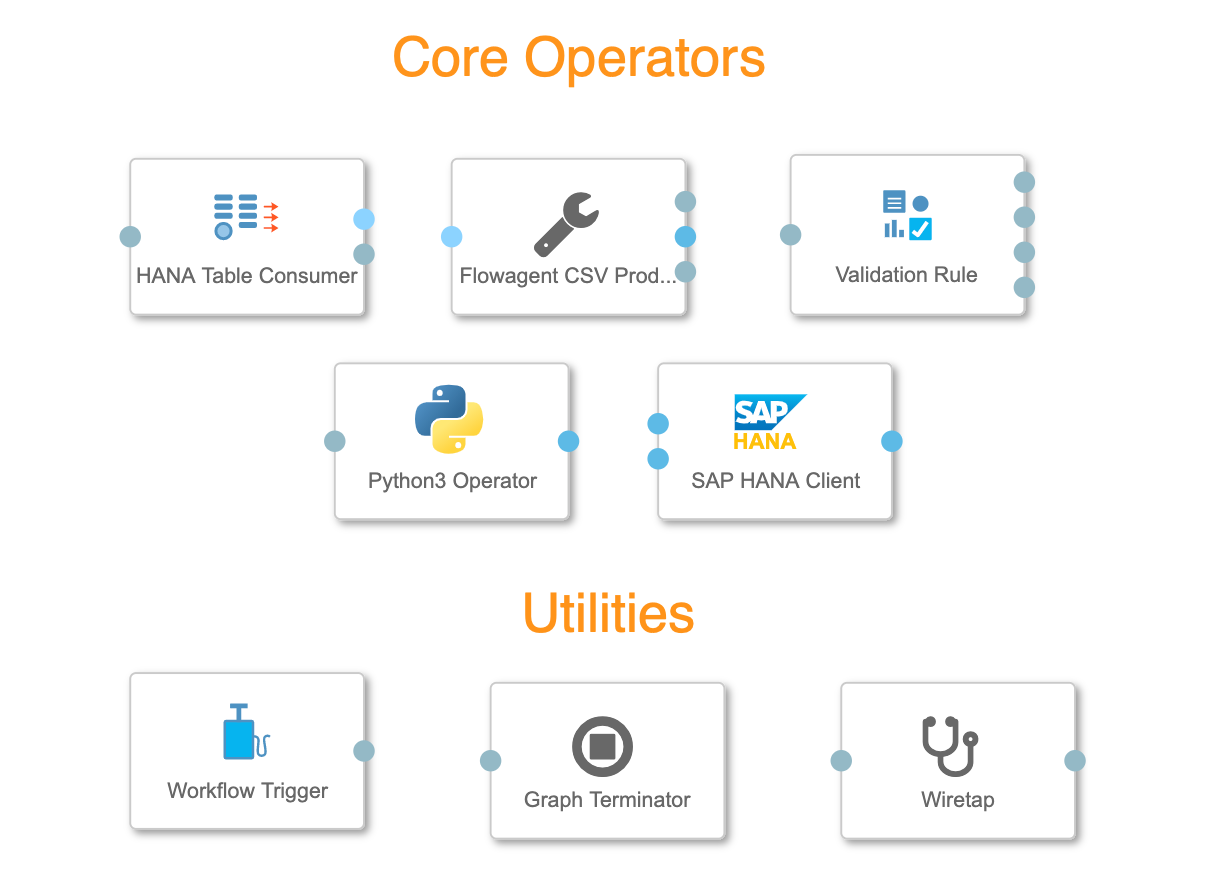
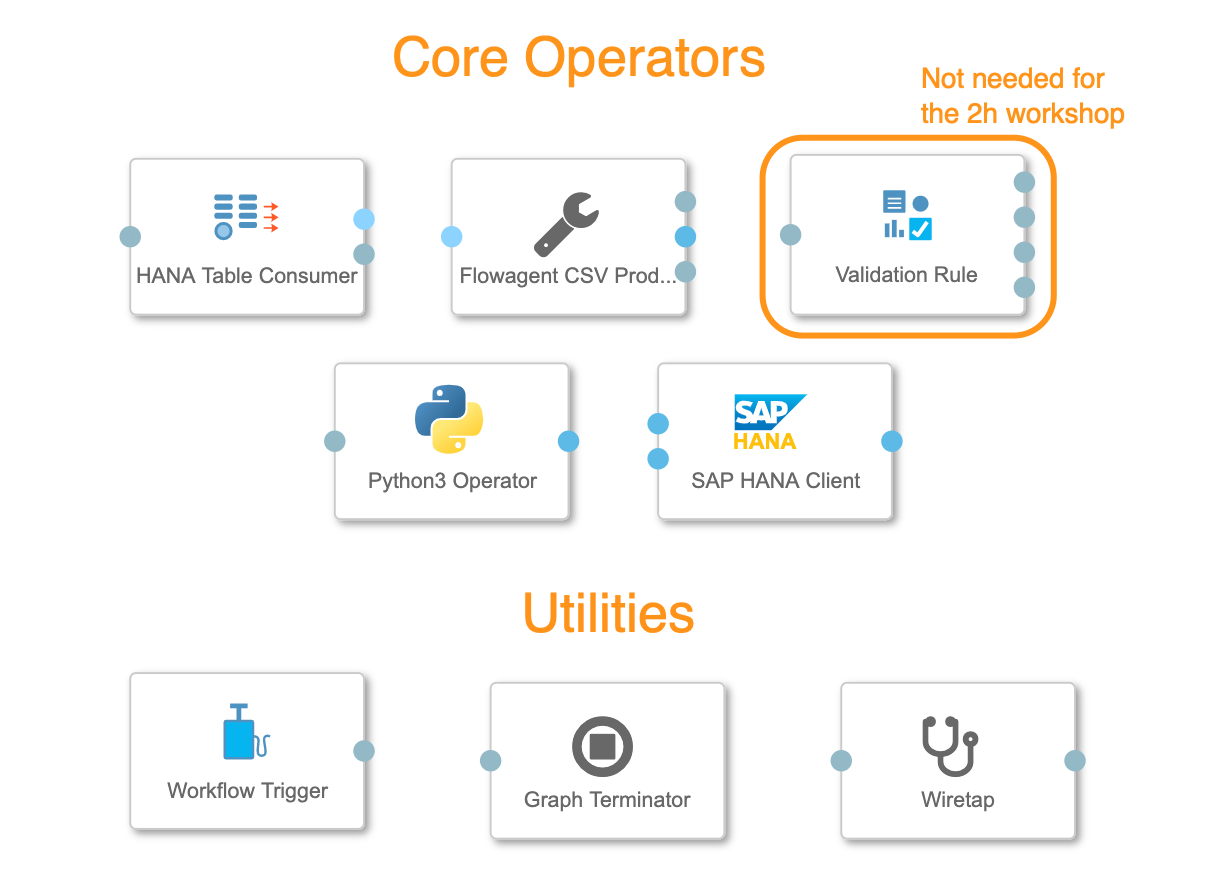
h2ex2

Changed region(s): [[0.6179, 0.0625, 0.9268, 0.4062]]

diff --git a/exercises/2h/ex2/README.md b/exercises/2h/ex2/README.md
@@ -50,44 +50,11 @@ Hint: Depending on the HANA DB operator you might have the header passed as well
 
 4. Before we continue with the designing the pipeline we want to verify that data is being read correctly from HANA and rewritten into a CSV format. Start the pipeline and wait for it to in status `Running`. Click on the **Open UI** icon on the `Wiretap` operator. (This icon only appears when the pipeline is running) A new browser tab is opened and if everything is configured correctly CSV data should be displayed.
 
-## Exercise 3.2
 
-1. Add the `Validation Rule` operator and connect it to the outport of the `Wiretap` operator
-2. Configure the **Input Schema**: Click on *Edit*
-	- In the new configuration window "Edit property 'Input Schema'
-	- Add for each table column an item:
+## Excercise 3.2
+In this part we like to analyse the data with a python script.
 
-	|Name    |Type              |
-	|--------|------------------|
-	|DATE    |String (Length 10)|
-	|CELLID  |Integer           |
-	|NOM_KEY1|Number            |
-	|NOM_KEY2|Number            |
-	|KEY1    |Number            |
-	|KEY2    |Number            |
-
-	![configvrschema](./images/Configvrschema.png)
-3. Return to the operator's configuration menu and edit **Rules**:
-	- Add the following rule :
-	
-	|Column|Condition|Value  |Fail Action|
-	|------|---------|-------|-----------|
-	|KEY1  |<        |130    |FAIL       |
-	|KEY1  |>        |70     |FAIL       |
-
-
-	This might look a bit counter-intuitive but it actually means all values > 130 and < 70 fail.
-
-	![configvrrules](./images/Configvrrules.png)
-3. All other configuration parameter leave as default.
-4. Add two **Wiretab** operators and connect them to the outports **Validation Rule** named `pass` and `fail`.
-5. Run the pipeline and check the output on both wiretaps. If your HANA table only one filtered record from Excercise 2 then you should see one failed record in the wiretap operator.
-![Ex3_2](./images/ex3_2.png)
-
-## Excercise 3.3
-In this last section we will use Python to correct the failed records.
-
-1. Add the `Python3` operator to the canvas and connect it to either to the outport of the **Wiretap** or the outport of the **Validation Rule** (fail)
+1. Add the `Python3` operator to the canvas and connect it to either to the outport of the **Wiretap** or the outport of the **Flowagent CSV Producer** (outContent)
 2. Add inport and outport to the **Python3 Operator** operator ![Ex3_2](./images/addports.png) ![inport](./images/inport.png) ![outport](./images/outport.png)
 3. Open the script tab by clicking on **Script** icon of the `Python3` operator. This will open a new tab inside the Pipeline Modeler. ![scripticon](./images/scripticon.png)
 4. The operator comes with some sample code. Mark all of the text and delete it. Replace it with the following script:
@@ -101,33 +68,40 @@ def on_input(data):
 
     # Read data to DataFrame
     data_stream = io.StringIO(data)
-    df = pd.read_csv(data_stream, names = ["DATE","CELLID","KEY1","KEY2","NOM_KEY1","NOM_KEY2","ERROR_ACTION","ERROR_COLUMNS","ROW_ID"] )
-    #df.rename(columns={'ERROR ACTION':'ERROR_ACTION', 'ERROR COLUMNS' :'ERROR_COLUMNS', 'ROW ID':'ROW_ID'},inplace=True)
+    df = pd.read_csv(data_stream, names = ["DATE","CELLID","KEY1","KEY2","NOM_KEY1","NOM_KEY2"] )
 
     # Add ticket information
     df["TIMESTAMP"] = datetime.now()
     df["STATUS"] = 'open'
     df["COMMENT"] = 'TAxx'
-    df["ROW_ID"] = df["ROW_ID"].astype('int64')
+    df["ROW_ID"] = df.index
+    df["ERROR_COLUMNS"] = ''
+    df["ERROR_ACTION"] = 'D'
+    
+    max_diff_key1 = 30
+    max_diff_key2 = 60
+    
+    df = df.loc[(df['KEY1'] < df['NOM_KEY1'] - max_diff_key1) | (df['KEY1'] > df['NOM_KEY1'] + max_diff_key1) | \
+                   (df['KEY2'] < df['NOM_KEY2'] - max_diff_key2) | (df['KEY2'] > df['NOM_KEY2'] + max_diff_key2)]
 
     # resort DataFrame in case of order is important
     df = df[["TIMESTAMP","STATUS","COMMENT","DATE","CELLID","KEY1","KEY2","NOM_KEY1","NOM_KEY2","ERROR_ACTION","ERROR_COLUMNS","ROW_ID"]]
 
-    api.send("ticket", api.Message(attributes={'data':'FAILED'},body=df.to_csv(index = False,date_format="%Y-%m-%d %H:%M:%S",header=False)))
+    api.send("output", api.Message(attributes={'data':'FAILED'},body=df.to_csv(index = False,date_format="%Y-%m-%d %H:%M:%S",header=False)))
 
 
-api.set_port_callback("failed", on_input)
+api.set_port_callback("input", on_input)
 
 ```
 
-The basic idea of this script is to store the csv records ,which are coming from the `fail` outport of the `Validation Rule` operator, as an pandas DataFrame. Then we add some additional columns and values to this DataFrame, convert it back into a csv-format and send it to the outport `ticket`.
+The basic idea of this script is to store the csv records as an pandas DataFrame. Then we add some additional columns and values to this DataFrame, filter the records that deviates from the nominal values by specified amount and then convert it back into a csv-format and send it to the outport `output`.
 You could add in the ``df[comment] = 'TAxx'`` your user-name to better find your QM tickets.
 5. Add a new `Wiretap` operator to the canvas and connect it to the "Python3 Operator" outport.
 6. Save and run the pipeline and check if the output is what you expected.
 
 ## Exercise 3.4
 
-1. Add the `SAP HANA Client` operator to the canvas and connect it either to the outport of the **Wiretap** or directly to outport of the `Python3 Operator` operator
+1. Add the `SAP HANA Client` operator to the canvas and connect the `data`-inport either to the outport of the **Wiretap** or directly to outport of the `Python3 Operator` operator
 2. Configure the **SAP HANA Client**
 	1. **Connection:** `Configuration Manager/HANA_CLOUD_TECHED`
 	2. **Table name:** `"TECHED"."QMTICKET"`. Don't forget to include the double quotes!
